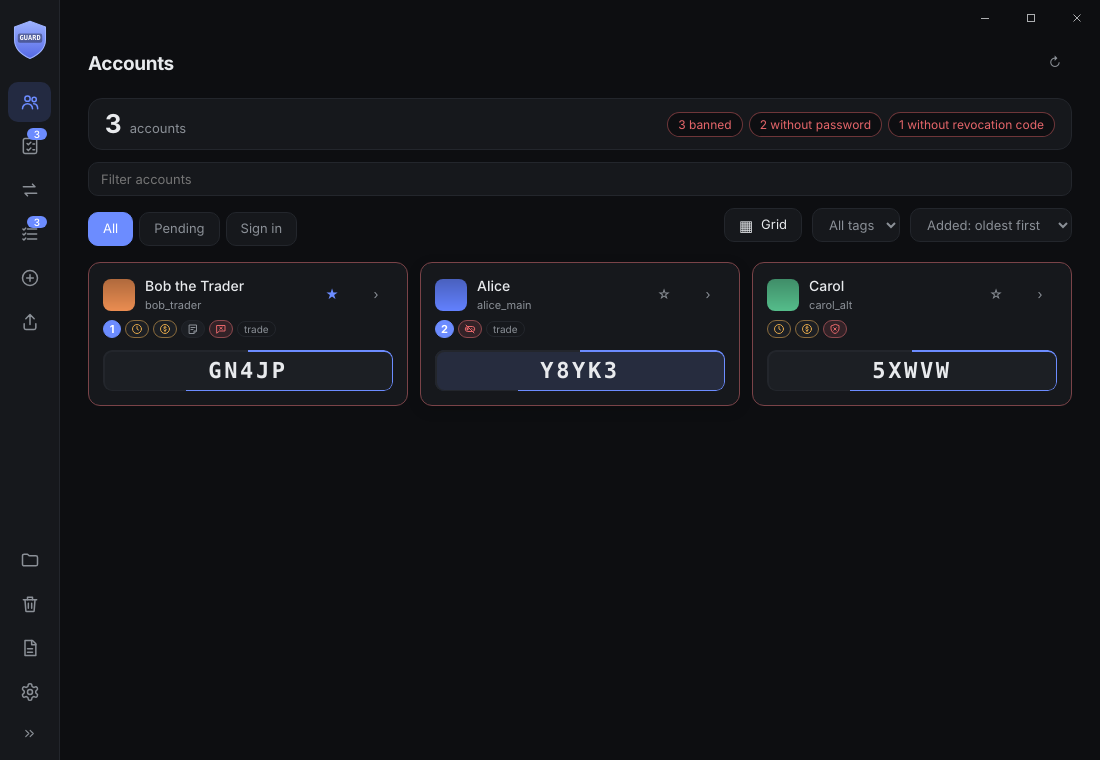
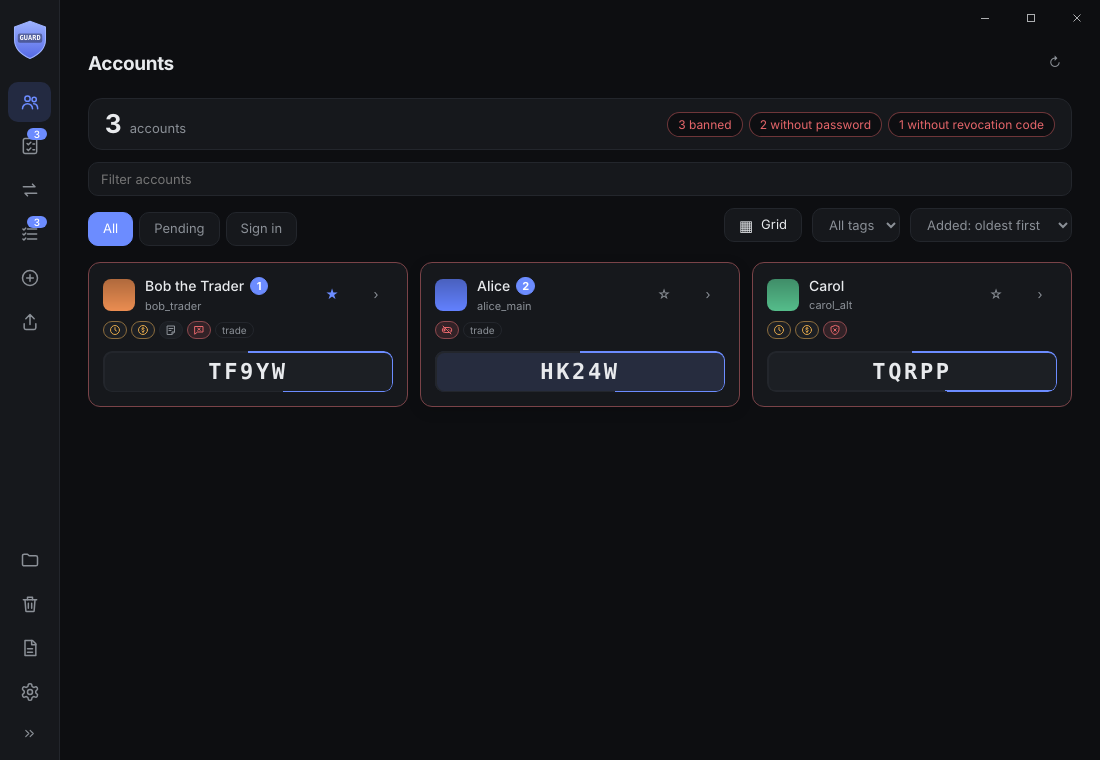
Pending confirmations next to the name
Claude-Session: https://claude.ai/code/session_01DW1HzNu7DPUhuZ6F8TPH3n

diff --git a/src/renderer/main.ts b/src/renderer/main.ts
@@ -758,13 +758,14 @@ function drawFlags(li: HTMLElement, row: Row): void {
 		return b;
 	};
 	const detail = (): void => void navigate({ name: 'detail', id: row.steamId });
-	/** Fixed places first, so the same kind of mark sits in the same spot on every row: confirmations, sign-in expiry, trade limits, note. Bans and the tag follow. */
+	/** What needs doing (confirmations waiting, sign-in needed) sits right after the name. The rest has fixed places, so the same mark is in the same spot on every row: sign-in expiry, trade limits, note. Bans and the tag follow. */
 	const gap = (): HTMLElement => el('span', { class: 'flag-gap', ariaHidden: 'true' });
 	const nodes: HTMLElement[] = [];
-	if (row.state === 'signin') nodes.push(flag('warn', svgIcon('lock'), 'Sign in needed to see confirmations', detail));
-	else if (row.state === 'error') nodes.push(flag('warn', '↻', 'Could not check confirmations. Click for details', detail));
-	else if (row.pending) nodes.push(flag('hot', String(row.pending), `${row.pending} confirmation${row.pending === 1 ? '' : 's'} waiting. Click to review`, () => void navigate({ name: 'confirms' })));
-	else nodes.push(gap());
+	const status: HTMLElement[] = [];
+	if (row.state === 'signin') status.push(flag('warn', svgIcon('lock'), 'Sign in needed to see confirmations', detail));
+	else if (row.state === 'error') status.push(flag('warn', '↻', 'Could not check confirmations. Click for details', detail));
+	else if (row.pending) status.push(flag('hot', String(row.pending), `${row.pending} confirmation${row.pending === 1 ? '' : 's'} waiting. Click to review`, () => void navigate({ name: 'confirms' })));
+	li.querySelector<HTMLElement>('.status')!.replaceChildren(...status);
 	nodes.push(row.sessionDays !== null ? flag('warn', svgIcon('clock'), `The saved sign-in runs out in ${row.sessionDays} day${row.sessionDays === 1 ? '' : 's'}. Save the password to keep it going`, detail) : gap());
 	nodes.push(row.restrictions.length ? flag('warn', svgIcon('limit'), `Trading and market: ${row.restrictions.join('. ')}`, detail) : gap());
 	nodes.push(row.note ? flag('note', svgIcon('note'), row.note, detail) : gap());
@@ -999,7 +1000,7 @@ async function listScreen(): Promise<void> {
 		} });
 		li.append(
 			el('span', { class: 'avatar-slot' }),
-			el('span', { class: 'who' }, el('span', { class: 'name-line' }, profileLink(row.steamId, row.name, 'name')), el('span', { class: 'sid' })),
+			el('span', { class: 'who' }, el('span', { class: 'name-line' }, profileLink(row.steamId, row.name, 'name'), el('span', { class: 'status' })), el('span', { class: 'sid' })),
 			el('span', { class: 'flags' }),
 			code,
 			star,

diff --git a/src/renderer/style.css b/src/renderer/style.css
@@ -147,9 +147,10 @@ button.flag { cursor: pointer; }
 .list.columns .code { font-size: 17px; padding: 3px 9px; }
 .list.grid { display: grid; grid-template-columns: repeat(auto-fill, minmax(240px, 1fr)); gap: 12px; }
 .list.grid .row { grid-template-columns: auto 1fr auto auto; grid-template-rows: auto auto auto auto; gap: 4px 10px; padding: 14px; }
-.list.grid .row > .who, .list.grid .name-line { display: contents; }
+.list.grid .row > .who { display: contents; }
+.list.grid .name-line { grid-column: 2; grid-row: 1; align-self: end; min-width: 0; }
 .list.grid .row > .avatar-slot { grid-column: 1; grid-row: 1 / 3; align-self: center; }
-.list.grid .name { grid-column: 2; grid-row: 1; align-self: end; min-width: 0; overflow: hidden; text-overflow: ellipsis; white-space: nowrap; }
+.list.grid .name { min-width: 0; overflow: hidden; text-overflow: ellipsis; white-space: nowrap; }
 .list.grid .sid { grid-column: 2; grid-row: 2; align-self: start; min-width: 0; overflow: hidden; text-overflow: ellipsis; white-space: nowrap; }
 .list.grid .row > .star { grid-column: 3; grid-row: 1 / 3; align-self: center; }
 .list.grid .row > .more { grid-column: 4; grid-row: 1 / 3; align-self: center; }
@@ -651,3 +652,5 @@ main.fill > .hint { flex: none; }
 .ctx-item .tick-mark { margin-left: auto; color: var(--accent); }
 .view-btn { margin-left: auto; }
 .list.dense:not(.columns):not(.grid) { row-gap: 0; }
+.status { display: inline-flex; align-items: center; gap: 4px; flex: none; }
+.status:empty { display: none; }

diff --git a/CHANGELOG.md b/CHANGELOG.md
@@ -5,7 +5,7 @@
 - New compact list view: one thin line per account, about 36 px instead of 56, still showing the login name and SteamID64 when those settings are on.
 - The time left on a code is now the border of the code box, which empties clockwise and turns red in the last 5 seconds, instead of a line across the whole row. Every view uses it.
 - The page called Codes is now called Accounts, with a people icon in the side menu instead of the shield.
-- The small marks on an account sit in fixed places, so the same mark is in the same spot on every row of the list and compact list: waiting confirmations, sign-in expiry, trade limits, note, then bans and the tag.
+- The small marks on an account sit in fixed places, so the same mark is in the same spot on every row of the list and compact list: sign-in expiry, trade limits, note, then bans and the tag. Waiting confirmations (and "sign in needed") sit right after the name.
 - The four views (list, compact list, columns, grid) sit in one View menu instead of four buttons.
 - Profile picture: an account whose Steam profile was never set up now shows Steam's default picture instead of a letter.
 - New "columns" view: compact rows with two or more accounts per line, depending on the window width. Grid and columns use the full window width.
